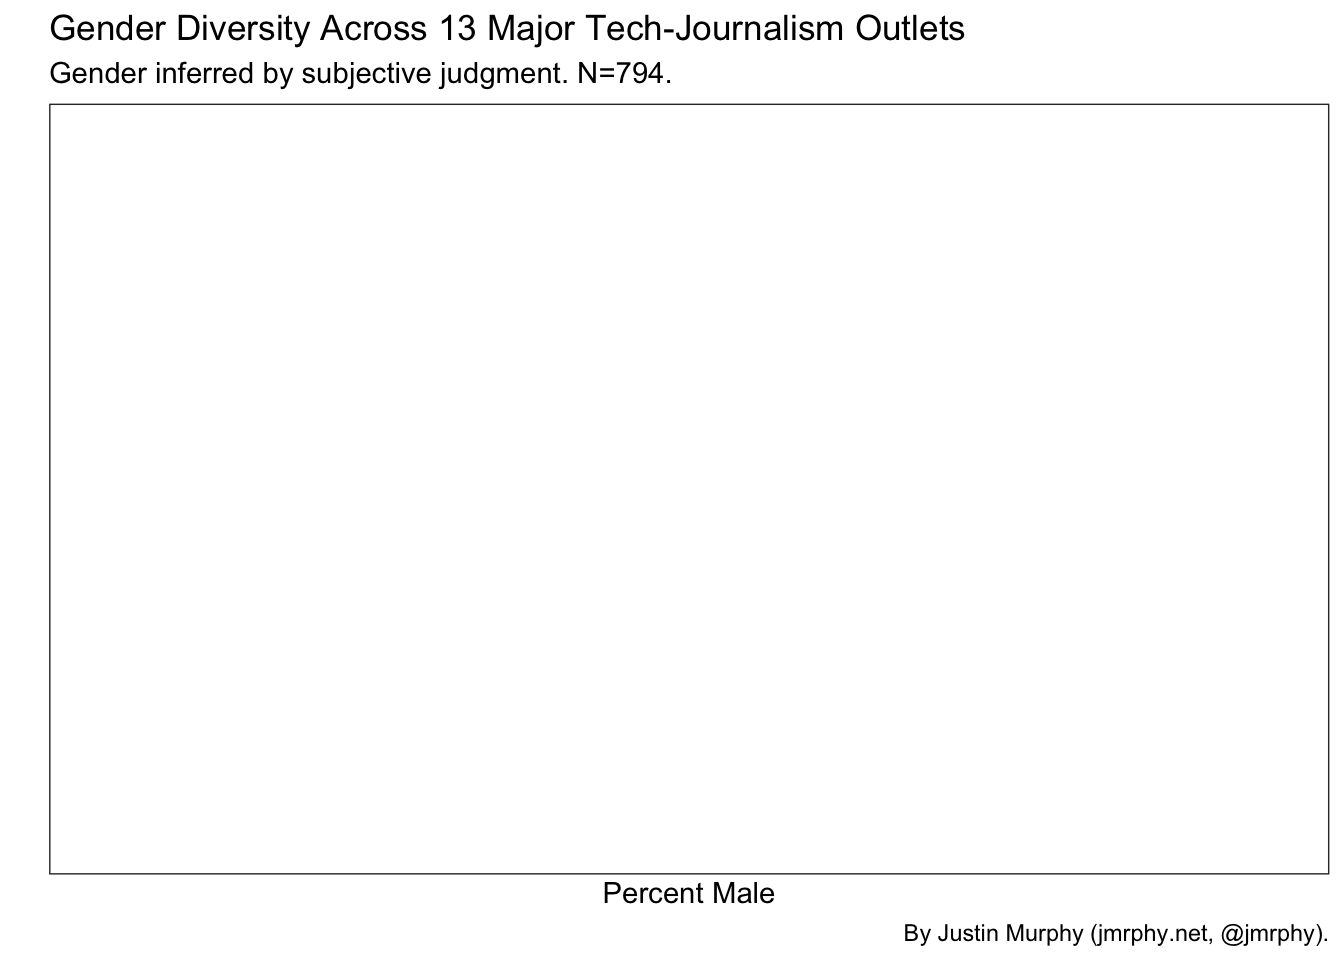
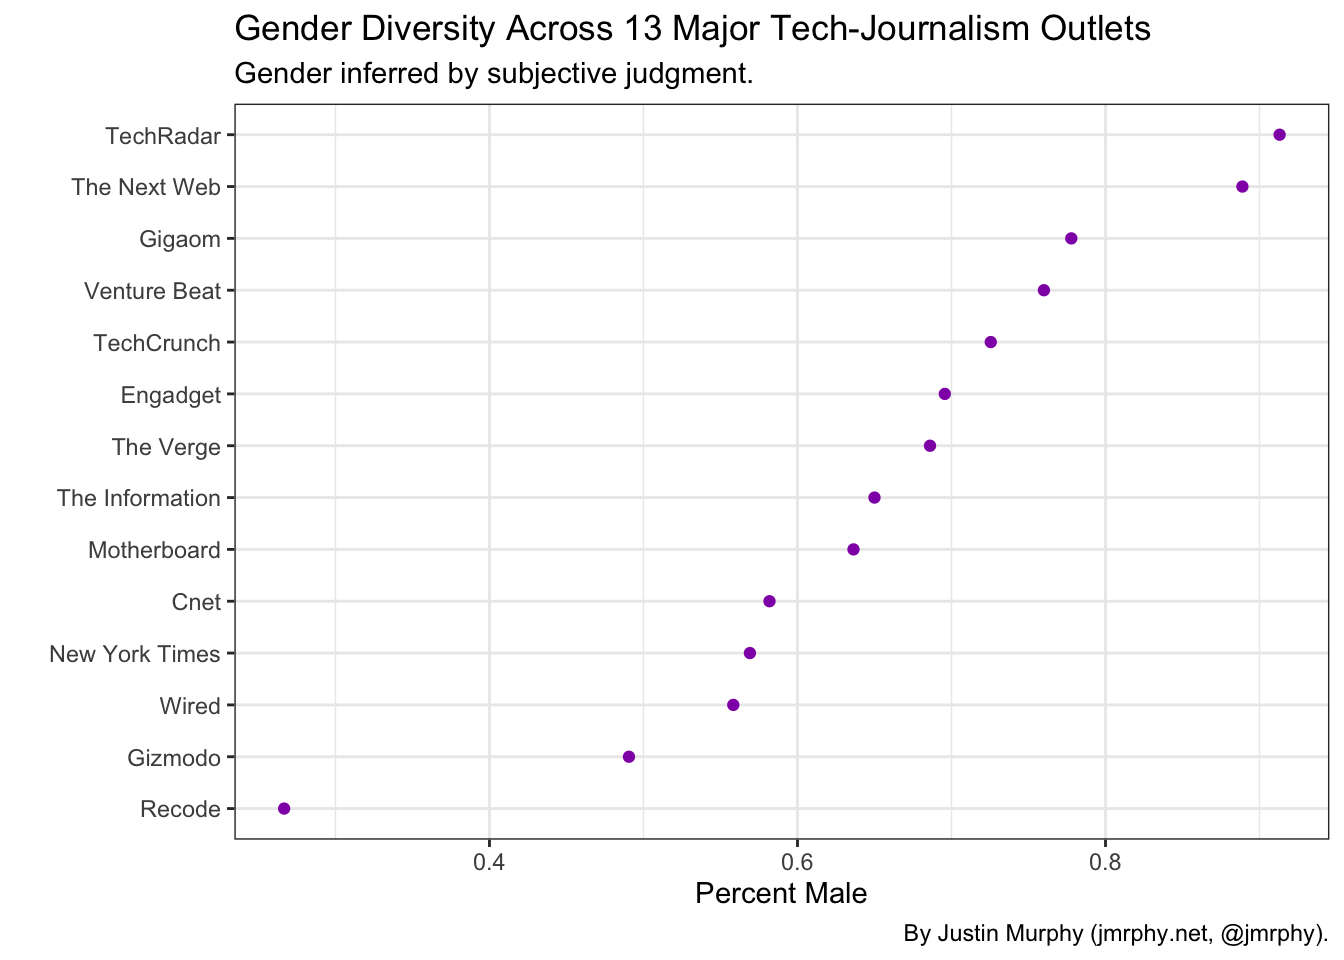
final changes

diff --git a/content/post/2020-07-28-tech-journalism.html b/content/post/2020-07-28-tech-journalism.html
@@ -1,9 +1,9 @@
 ---
-title: Using Twitter to Analyze Diversity in Professional Domains (Appendix for Tech Journalism is Less Diverse than Tech)
+title: Tech Journalism is Less Diverse than Tech (Code and Data)
 draft: yes
 author: ''
 date: '2020-07-28'
-slug: tech-journalism
+slug: tech-journalism-is-less-diverse-than-tech-code-and-data
 categories:
   - theory & empirics
 tags:
@@ -22,6 +22,7 @@ projects: []
 
 
 
+<p><img src="/img/Tech-journalism-is-less-diverse-than-tech.png" /></p>
 <p>Tech journalists often criticize the technology sector for a lack of racial and gender diversity. So we analyzed the diversity of tech journalists. Using multiple sampling methods, and multiple ways of measuring race and gender, we find that tech journalism is almost certainly less racially diverse than tech itself.</p>
 <p>The code here may be of use to others analyzing racial and/or gender diversity in other domains as well.</p>
 <p><a href="https://docs.google.com/spreadsheets/d/1c4IimnX1DpPEOTI5CLhWmxuhlaocYlFD2wy1D6i-2oQ/edit?usp=sharing">Here is the final dataset with the estimated race and gender of 982 tech journalists.</a></p>
@@ -32,7 +33,7 @@ projects: []
 </div>
 <div id="background-and-overview-of-the-methodology" class="section level2">
 <h2>Background and overview of the methodology</h2>
-<p>The initial dataset gathered by <a href="https://oonwoye.com/subscribe">Oo Nwoye</a> <span class="citation">[@OoTheNigerian]</span>(<a href="https://twitter.com/OoTheNigerian" class="uri">https://twitter.com/OoTheNigerian</a>) focused on the diversity of editorial staff and attendees at tech-journalism conferences, but his approach had two limitations. First, conferences are subject to a variety of selection biases, which might not have anything to do with tech-journalism culture per se. Second, there are only so many people on editorial staff or in the tech-journalism conference circuit, so this approach will likely leave us with an unnecessarily small sample.</p>
+<p>The initial dataset gathered by <a href="https://oonwoye.com/subscribe">Oo Nwoye</a> (<a href="https://twitter.com/OoTheNigerian">@OoTheNigerian</a>) focused on the diversity of editorial staff and attendees at tech-journalism conferences, but his approach had two limitations. First, conferences are subject to a variety of selection biases, which might not have anything to do with tech-journalism culture per se. Second, there are only so many people on editorial staff or in the tech-journalism conference circuit, so this approach will likely leave us with an unnecessarily small sample.</p>
 <p>Here we pursue a different approach, using multiple methods to check the robustness of our results. Thanks to OoTheNigerian for his help.</p>
 </div>
 <div id="two-different-sampling-methods" class="section level2">
@@ -43,7 +44,7 @@ projects: []
 <div id="two-ways-of-estimating-race-and-gender" class="section level2">
 <h2>Two ways of estimating race and gender</h2>
 <p>Estimating race and gender is fraught. A method based on measurable, objective aspects of a person’s identity may fail to capture certain nuances in how race and gender are socially constructed. A method based on subjective human judgment might err by being inconsistent, ignorant, or prejudiced about how race and gender are assigned. To deal with the limitations of each method, we estimate race and gender through both methods: If the results are similar, we should be relatively confident in their accuracy.</p>
-<p><em>Subjective judgment.</em> Estimating race and gender through subjective judgment was straightforward, if not always possible: We looked at each Twitter account and inferred the individual’s race and gender holistically, using their profile photo, name, and context-clues in their bio. In most cases, the inference was unambiguous. In cases where either the gender or race was unclear, we assigned an “NA” for the given variable. Given some controversy over the race of Arab and Persian people (the US census says “white” but many people have contested this), we sidestep the matter by assigning Arabs and Persians “NA” for race. (There were only about 15 total so including them would likely make tech journalism even less diverse.)</p>
+<p><em>Subjective judgment.</em> Estimating race and gender through subjective judgment was straightforward, if not always possible: We looked at each Twitter account and inferred the individual’s race and gender holistically, using their profile photo, name, and context-clues in their bio. In most cases, the inference was unambiguous. In cases where either the gender or race was unclear, we assigned an “NA” for the given variable. Given some controversy over the race of Arab and Persian people (the US census says “white” but many people have contested this), we sidestep the matter by assigning Arabs and Persians “NA” for race. (There were only about 15 total so neither racial classification would have much effect on our key findings.)</p>
 <p><em>Objective judgment.</em> Alternatively, we leveraged data from the Census and the Social Security Administration to infer journalist’s race and gender from surnames and first names, respectively.</p>
 </div>
 <div id="note-on-the-analytic-virtue-of-using-twitter-data" class="section level2">
@@ -394,7 +395,7 @@ df %&gt;%
   theme_bw() +
   labs(x=&quot;&quot;, y=&quot;Proportion Male&quot;,
        title=&quot;Gender Diversity Across 13 Major Tech-Journalism Outlets&quot;,
-       subtitle = &quot;Race inferred by subjective judgment.&quot;,
+       subtitle = &quot;Gender inferred by subjective judgment.&quot;,
        caption= &quot;By Justin Murphy (jmrphy.net, @jmrphy).&quot;)</code></pre>
 <p><img src="/post/2020-07-28-tech-journalism_files/figure-html/unnamed-chunk-2-1.png" width="672" /></p>
 <pre class="r"><code># Calculate overall stats for subjectively assigned gender
@@ -457,7 +458,7 @@ df$race&lt;-recode(df$race, asian = &quot;Asian&quot;,
 
 # Export final spreadsheet (this is the one you can download)
 
-# write.csv(df, &quot;/Users/justin/Dropbox/Public/journos.csv&quot;)</code></pre>
+# write.csv(df, &quot;journos.csv&quot;)</code></pre>
 <pre class="r"><code>totals.objective&lt;-df %&gt;%
   drop_na(race) %&gt;%
   group_by(outlet, race) %&gt;%
@@ -489,7 +490,7 @@ ggplot(aes(x = race)) +
   geom_bar(aes(y = (..count..)/sum(..count..)), fill = &quot;#9124b5&quot;) +
   theme_bw() +
   labs(title=&quot;Racial Diversity Among Tech Journalists on Twitter&quot;,
-       subtitle=&quot;Race inferred from surname using Census data. N=521.&quot;,
+       subtitle=&quot;Race inferred from surname using Census data.&quot;,
       x=&quot;&quot;,
        y=&quot;Proportion&quot;,
       caption=&quot;By Justin Murphy (jmrphy.net, @jmrphy)&quot;) +
@@ -502,7 +503,7 @@ ggplot(aes(x = subjective_race)) +
   geom_bar(aes(y = (..count..)/sum(..count..)), fill = &quot;#9124b5&quot;) +
   theme_bw() +
   labs(title=&quot;Racial Diversity Among Tech Journalists on Twitter&quot;,
-       subtitle=&quot;Race inferred by subjective judgment. N=696.&quot;,
+       subtitle=&quot;Race inferred by subjective judgment.&quot;,
       x=&quot;&quot;,
        y=&quot;Proportion&quot;,
       caption=&quot;By Justin Murphy (jmrphy.net, @jmrphy).&quot;) +
@@ -516,7 +517,7 @@ ggplot(aes(x = gender)) +
   geom_bar(aes(y = (..count..)/sum(..count..)), fill = &quot;#9124b5&quot;) +
   theme_bw() +
   labs(title=&quot;Gender Diversity Among Tech Journalists on Twitter&quot;,
-       subtitle=&quot;Gender inferred from first name using SSA data. N=806.&quot;,
+       subtitle=&quot;Gender inferred from first name using SSA data.&quot;,
       x=&quot;&quot;,
        y=&quot;Proportion&quot;,
       caption=&quot;By Justin Murphy (jmrphy.net, @jmrphy).&quot;) +
@@ -528,7 +529,7 @@ ggplot(aes(x = race)) +
   geom_bar(aes(y = (..count..)/sum(..count..)), fill = &quot;#9124b5&quot;) +
   theme_bw() +
   labs(title=&quot;Racial and Gender Diversity Among Tech Journalists on Twitter&quot;,
-       subtitle=&quot;Race and gender inferred from names using government data. N=500.&quot;,
+       subtitle=&quot;Race and gender inferred from names using government data.&quot;,
       x=&quot;&quot;,
        y=&quot;Proportion&quot;,
       caption=&quot;By Justin Murphy (jmrphy.net, @jmrphy).&quot;) +
@@ -540,7 +541,7 @@ ggplot(aes(x = subjective_gender)) +
   geom_bar(aes(y = (..count..)/sum(..count..)), fill = &quot;#9124b5&quot;) +
   theme_bw() +
   labs(title=&quot;Gender Diversity Among Tech Journalists on Twitter&quot;,
-       subtitle=&quot;Gender inferred by subjective judgment. N=794.&quot;,
+       subtitle=&quot;Gender inferred by subjective judgment.&quot;,
       x=&quot;&quot;,
        y=&quot;Proportion&quot;,
       caption=&quot;By Justin Murphy (jmrphy.net, @jmrphy).&quot;) +
@@ -587,7 +588,7 @@ df %&gt;%
   theme_bw() +
   labs(x=&quot;&quot;, y=&quot;Percent Male&quot;,
        title=&quot;Gender Diversity Across 13 Major Tech-Journalism Outlets&quot;,
-       subtitle = &quot;Gender inferred by subjective judgment. N=794.&quot;,
+       subtitle = &quot;Gender inferred by subjective judgment.&quot;,
        caption= &quot;By Justin Murphy (jmrphy.net, @jmrphy).&quot;)</code></pre>
 <p><img src="/post/2020-07-28-tech-journalism_files/figure-html/unnamed-chunk-8-2.png" width="672" /></p>
 </div>
@@ -645,7 +646,7 @@ df2$race&lt;-recode(df2$race, asian = &quot;Asian&quot;,
                         hispanic = &quot;Hispanic&quot;)
 
 # Export
-# write.csv(df2, &quot;/Users/justin/Dropbox/Public/tech-journalists-from-lists-df.csv&quot;)
+# write.csv(df2, &quot;tech-journalists-from-lists-df.csv&quot;)
 
 # Total percentages from lists
 totals.from.lists&lt;-df2 %&gt;%
@@ -699,5 +700,5 @@ ggplot(aes(x = race)) +
 </div>
 <div id="acknowledgements" class="section level1">
 <h1>Acknowledgements</h1>
-<p>I collaborated with <a href="https://oonwoye.com/subscribe">Oo Nwoye</a> <span class="citation">[@OoTheNigerian]</span>(<a href="https://twitter.com/OoTheNigerian" class="uri">https://twitter.com/OoTheNigerian</a>) on this analysis. This project won the $1000 Bitcoin prize that <span class="citation">[@balajis]</span>(<a href="https://twitter.com/balajis" class="uri">https://twitter.com/balajis</a>) had put up on Twitter for building on Oo’s work.</p>
+<p>I collaborated with <a href="https://oonwoye.com/subscribe">Oo Nwoye</a> (<a href="https://twitter.com/OoTheNigerian">@OoTheNigerian</a>) on this analysis. This project won the $1000 Bitcoin prize that <a href="https://twitter.com/balajis">@balajis</a> had put up on Twitter for building on Oo’s work.</p>
 </div>

diff --git a/public/post/tech-journalism-is-less-diverse-than-tech-code-and-data/index.html b/public/post/tech-journalism-is-less-diverse-than-tech-code-and-data/index.html
@@ -33,7 +33,7 @@ The code here may be of use to others analyzing racial and/or gender diversity i
 Here is the final dataset with the estimated race and gender of 982 tech journalists.">
 
   
-  <link rel="alternate" hreflang="en-us" href="/post/tech-journalism/">
+  <link rel="alternate" hreflang="en-us" href="/post/tech-journalism-is-less-diverse-than-tech-code-and-data/">
 
   
 
@@ -110,7 +110,7 @@ Here is the final dataset with the estimated race and gender of 982 tech journal
   <link rel="icon" type="image/png" href="/img/icon.png">
   <link rel="apple-touch-icon" type="image/png" href="/img/icon-192.png">
 
-  <link rel="canonical" href="/post/tech-journalism/">
+  <link rel="canonical" href="/post/tech-journalism-is-less-diverse-than-tech-code-and-data/">
 
   
   
@@ -125,8 +125,8 @@ Here is the final dataset with the estimated race and gender of 982 tech journal
   <meta property="twitter:creator" content="@jmrphy">
   
   <meta property="og:site_name" content="Justin Murphy">
-  <meta property="og:url" content="/post/tech-journalism/">
-  <meta property="og:title" content="Using Twitter to Analyze Diversity in Professional Domains (Appendix for Tech Journalism is Less Diverse than Tech) | Justin Murphy">
+  <meta property="og:url" content="/post/tech-journalism-is-less-diverse-than-tech-code-and-data/">
+  <meta property="og:title" content="Tech Journalism is Less Diverse than Tech (Code and Data) | Justin Murphy">
   <meta property="og:description" content="Tech journalists often criticize the technology sector for a lack of racial and gender diversity. So we analyzed the diversity of tech journalists. Using multiple sampling methods, and multiple ways of measuring race and gender, we find that tech journalism is almost certainly less racially diverse than tech itself.
 The code here may be of use to others analyzing racial and/or gender diversity in other domains as well.
 Here is the final dataset with the estimated race and gender of 982 tech journalists."><meta property="og:image" content="/img/icon-192.png">
@@ -146,7 +146,7 @@ Here is the final dataset with the estimated race and gender of 982 tech journal
 
 
 
-  <title>Using Twitter to Analyze Diversity in Professional Domains (Appendix for Tech Journalism is Less Diverse than Tech) | Justin Murphy</title>
+  <title>Tech Journalism is Less Diverse than Tech (Code and Data) | Justin Murphy</title>
 
 </head>
 
@@ -415,7 +415,7 @@ Here is the final dataset with the estimated race and gender of 982 tech journal
   
   
 <div class="article-container pt-3">
-  <h1 itemprop="name">Using Twitter to Analyze Diversity in Professional Domains (Appendix for Tech Journalism is Less Diverse than Tech)</h1>
+  <h1 itemprop="name">Tech Journalism is Less Diverse than Tech (Code and Data)</h1>
 
   
 
@@ -456,7 +456,7 @@ Here is the final dataset with the estimated race and gender of 982 tech journal
   
   
   <span class="middot-divider"></span>
-  <a href="/post/tech-journalism/#disqus_thread"></a>
+  <a href="/post/tech-journalism-is-less-diverse-than-tech-code-and-data/#disqus_thread"></a>
   
 
   
@@ -473,35 +473,35 @@ Here is the final dataset with the estimated race and gender of 982 tech journal
   <ul class="share">
     <li>
       <a class="twitter"
-         href="https://twitter.com/intent/tweet?text=Using%20Twitter%20to%20Analyze%20Diversity%20in%20Professional%20Domains%20%28Appendix%20for%20Tech%20Journalism%20is%20Less%20Diverse%20than%20Tech%29&amp;url=%2fpost%2ftech-journalism%2f"
+         href="https://twitter.com/intent/tweet?text=Tech%20Journalism%20is%20Less%20Diverse%20than%20Tech%20%28Code%20and%20Data%29&amp;url=%2fpost%2ftech-journalism-is-less-diverse-than-tech-code-and-data%2f"
          target="_blank" rel="noopener">
         <i class="fab fa-twitter"></i>
       </a>
     </li>
     <li>
       <a class="facebook"
-         href="https://www.facebook.com/sharer.php?u=%2fpost%2ftech-journalism%2f"
+         href="https://www.facebook.com/sharer.php?u=%2fpost%2ftech-journalism-is-less-diverse-than-tech-code-and-data%2f"
          target="_blank" rel="noopener">
         <i class="fab fa-facebook-f"></i>
       </a>
     </li>
     <li>
       <a class="linkedin"
-         href="https://www.linkedin.com/shareArticle?mini=true&amp;url=%2fpost%2ftech-journalism%2f&amp;title=Using%20Twitter%20to%20Analyze%20Diversity%20in%20Professional%20Domains%20%28Appendix%20for%20Tech%20Journalism%20is%20Less%20Diverse%20than%20Tech%29"
+         href="https://www.linkedin.com/shareArticle?mini=true&amp;url=%2fpost%2ftech-journalism-is-less-diverse-than-tech-code-and-data%2f&amp;title=Tech%20Journalism%20is%20Less%20Diverse%20than%20Tech%20%28Code%20and%20Data%29"
          target="_blank" rel="noopener">
         <i class="fab fa-linkedin-in"></i>
       </a>
     </li>
     <li>
       <a class="weibo"
-         href="http://service.weibo.com/share/share.php?url=%2fpost%2ftech-journalism%2f&amp;title=Using%20Twitter%20to%20Analyze%20Diversity%20in%20Professional%20Domains%20%28Appendix%20for%20Tech%20Journalism%20is%20Less%20Diverse%20than%20Tech%29"
+         href="http://service.weibo.com/share/share.php?url=%2fpost%2ftech-journalism-is-less-diverse-than-tech-code-and-data%2f&amp;title=Tech%20Journalism%20is%20Less%20Diverse%20than%20Tech%20%28Code%20and%20Data%29"
          target="_blank" rel="noopener">
         <i class="fab fa-weibo"></i>
       </a>
     </li>
     <li>
       <a class="email"
-         href="mailto:?subject=Using%20Twitter%20to%20Analyze%20Diversity%20in%20Professional%20Domains%20%28Appendix%20for%20Tech%20Journalism%20is%20Less%20Diverse%20than%20Tech%29&amp;body=%2fpost%2ftech-journalism%2f">
+         href="mailto:?subject=Tech%20Journalism%20is%20Less%20Diverse%20than%20Tech%20%28Code%20and%20Data%29&amp;body=%2fpost%2ftech-journalism-is-less-diverse-than-tech-code-and-data%2f">
         <i class="fas fa-envelope"></i>
       </a>
     </li>
@@ -539,6 +539,7 @@ Here is the final dataset with the estimated race and gender of 982 tech journal
       
 
 
+<p><img src="/img/Tech-journalism-is-less-diverse-than-tech.png" /></p>
 <p>Tech journalists often criticize the technology sector for a lack of racial and gender diversity. So we analyzed the diversity of tech journalists. Using multiple sampling methods, and multiple ways of measuring race and gender, we find that tech journalism is almost certainly less racially diverse than tech itself.</p>
 <p>The code here may be of use to others analyzing racial and/or gender diversity in other domains as well.</p>
 <p><a href="https://docs.google.com/spreadsheets/d/1c4IimnX1DpPEOTI5CLhWmxuhlaocYlFD2wy1D6i-2oQ/edit?usp=sharing">Here is the final dataset with the estimated race and gender of 982 tech journalists.</a></p>
@@ -911,7 +912,7 @@ df %&gt;%
   theme_bw() +
   labs(x=&quot;&quot;, y=&quot;Proportion Male&quot;,
        title=&quot;Gender Diversity Across 13 Major Tech-Journalism Outlets&quot;,
-       subtitle = &quot;Race inferred by subjective judgment.&quot;,
+       subtitle = &quot;Gender inferred by subjective judgment.&quot;,
        caption= &quot;By Justin Murphy (jmrphy.net, @jmrphy).&quot;)</code></pre>
 <p><img src="/post/2020-07-28-tech-journalism_files/figure-html/unnamed-chunk-2-1.png" width="672" /></p>
 <pre class="r"><code># Calculate overall stats for subjectively assigned gender
@@ -974,7 +975,7 @@ df$race&lt;-recode(df$race, asian = &quot;Asian&quot;,
 
 # Export final spreadsheet (this is the one you can download)
 
-# write.csv(df, &quot;/Users/justin/Dropbox/Public/journos.csv&quot;)</code></pre>
+# write.csv(df, &quot;journos.csv&quot;)</code></pre>
 <pre class="r"><code>totals.objective&lt;-df %&gt;%
   drop_na(race) %&gt;%
   group_by(outlet, race) %&gt;%
@@ -1162,7 +1163,7 @@ df2$race&lt;-recode(df2$race, asian = &quot;Asian&quot;,
                         hispanic = &quot;Hispanic&quot;)
 
 # Export
-# write.csv(df2, &quot;/Users/justin/Dropbox/Public/tech-journalists-from-lists-df.csv&quot;)
+# write.csv(df2, &quot;tech-journalists-from-lists-df.csv&quot;)
 
 # Total percentages from lists
 totals.from.lists&lt;-df2 %&gt;%

diff --git a/public/index.html b/public/index.html
@@ -703,7 +703,7 @@
   <div class="media-body">
 
     <h3 class="article-title mb-0 mt-0" itemprop="name">
-      <a href="/post/tech-journalism/" itemprop="url">Using Twitter to Analyze Diversity in Professional Domains (Appendix for Tech Journalism is Less Diverse than Tech)</a>
+      <a href="/post/tech-journalism-is-less-diverse-than-tech-code-and-data/" itemprop="url">Tech Journalism is Less Diverse than Tech (Code and Data)</a>
     </h3>
 
     
@@ -722,7 +722,7 @@
 
 
 <meta content="2020-07-28 00:00:00 &#43;0000 UTC" itemprop="datePublished">
-<meta content="2020-07-30 14:24:48 -0600 MDT" itemprop="dateModified">
+<meta content="2020-07-30 14:37:10 -0600 MDT" itemprop="dateModified">
 
 <div class="article-metadata">
 
@@ -753,7 +753,7 @@
   
   
   <span class="middot-divider"></span>
-  <a href="/post/tech-journalism/#disqus_thread"></a>
+  <a href="/post/tech-journalism-is-less-diverse-than-tech-code-and-data/#disqus_thread"></a>
   
 
   

diff --git a/public/post/index.html b/public/post/index.html
@@ -449,7 +449,7 @@
   <div class="media-body">
 
     <h3 class="article-title mb-0 mt-0" itemprop="name">
-      <a href="/post/tech-journalism/" itemprop="url">Using Twitter to Analyze Diversity in Professional Domains (Appendix for Tech Journalism is Less Diverse than Tech)</a>
+      <a href="/post/tech-journalism-is-less-diverse-than-tech-code-and-data/" itemprop="url">Tech Journalism is Less Diverse than Tech (Code and Data)</a>
     </h3>
 
     
@@ -468,7 +468,7 @@
 
 
 <meta content="2020-07-28 00:00:00 &#43;0000 UTC" itemprop="datePublished">
-<meta content="2020-07-30 14:24:48 -0600 MDT" itemprop="dateModified">
+<meta content="2020-07-30 14:37:10 -0600 MDT" itemprop="dateModified">
 
 <div class="article-metadata">
 
@@ -499,7 +499,7 @@
   
   
   <span class="middot-divider"></span>
-  <a href="/post/tech-journalism/#disqus_thread"></a>
+  <a href="/post/tech-journalism-is-less-diverse-than-tech-code-and-data/#disqus_thread"></a>
   
 
   

diff --git a/public/tags/data/index.html b/public/tags/data/index.html
@@ -436,7 +436,7 @@
   </div>
   
   <div>
-    <h2><a href="/post/tech-journalism/">Using Twitter to Analyze Diversity in Professional Domains (Appendix for Tech Journalism is Less Diverse than Tech)</a></h2>
+    <h2><a href="/post/tech-journalism-is-less-diverse-than-tech-code-and-data/">Tech Journalism is Less Diverse than Tech (Code and Data)</a></h2>
     <div class="article-style">
       
       Tech journalists often criticize the technology sector for a lack of racial and gender diversity. So we analyzed the diversity of tech journalists. Using multiple sampling methods, and multiple ways of measuring race and gender, we find that tech journalism is almost certainly less racially diverse than tech itself.

diff --git a/public/categories/theory-empirics/index.html b/public/categories/theory-empirics/index.html
@@ -427,7 +427,7 @@
   
   
   <div>
-    <h2><a href="/post/tech-journalism/">Using Twitter to Analyze Diversity in Professional Domains (Appendix for Tech Journalism is Less Diverse than Tech)</a></h2>
+    <h2><a href="/post/tech-journalism-is-less-diverse-than-tech-code-and-data/">Tech Journalism is Less Diverse than Tech (Code and Data)</a></h2>
     <div class="article-style">
       
       Tech journalists often criticize the technology sector for a lack of racial and gender diversity. So we analyzed the diversity of tech journalists. Using multiple sampling methods, and multiple ways of measuring race and gender, we find that tech journalism is almost certainly less racially diverse than tech itself.

diff --git a/public/404.html b/public/404.html
@@ -411,7 +411,7 @@
     
       <li><a href="/talk/example/">Data Blogging with R</a></li>
     
-      <li><a href="/post/tech-journalism/">Using Twitter to Analyze Diversity in Professional Domains (Appendix for Tech Journalism is Less Diverse than Tech)</a></li>
+      <li><a href="/post/tech-journalism-is-less-diverse-than-tech-code-and-data/">Tech Journalism is Less Diverse than Tech (Code and Data)</a></li>
     
       <li><a href="/post/recursive-partitioning-decision-trees-guess-opinions/">Use recursive partitioning and decision trees to guess someone&#39;s political opinions (using R with survey data)</a></li>
     
